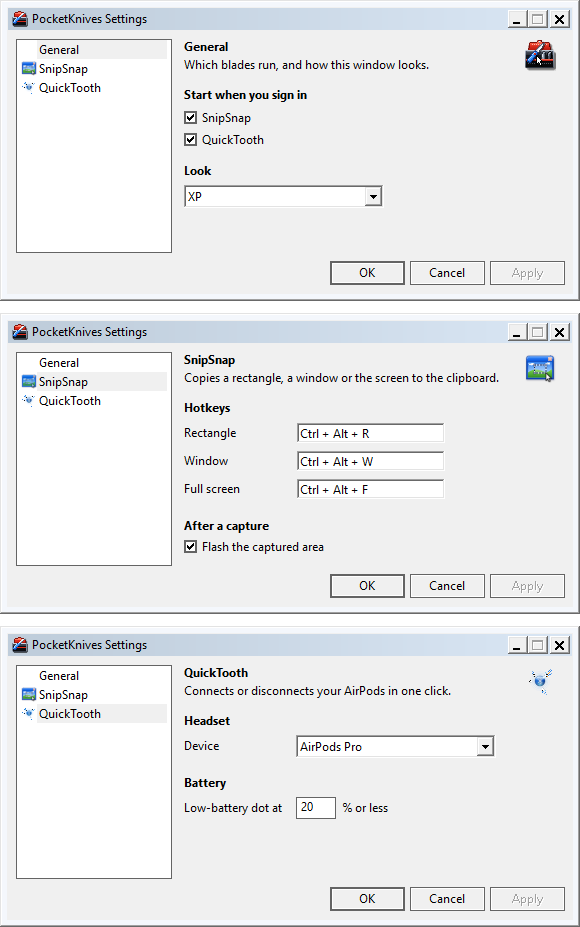
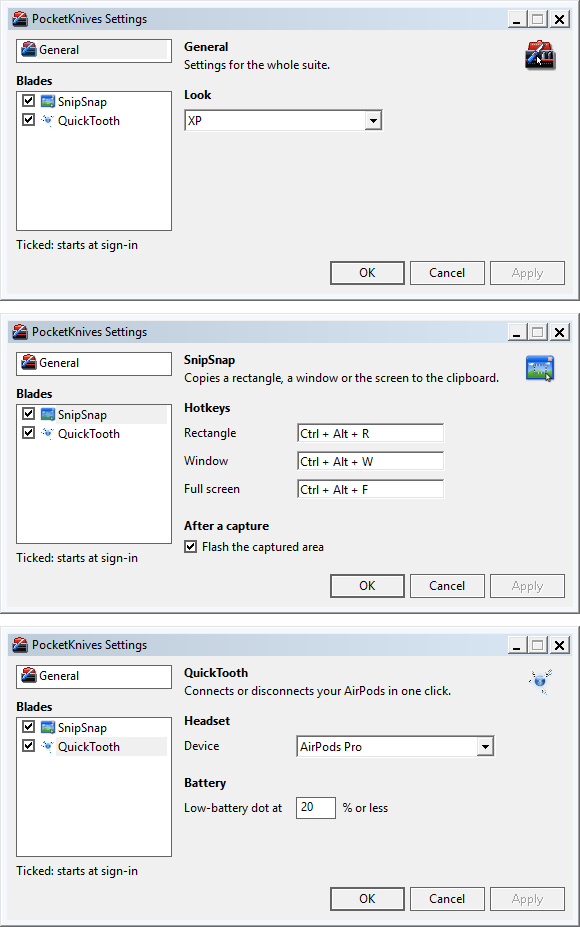
Settings window: sign-in boxes in a Blades list under General
The user picked the two-list design: General alone at the top, then a
bold "Blades" heading and the blades' list, each row with a box for
"starts when you sign in" (a switch in the Windows 11 look), so that
setting leaves General. Recaptured all three looks.

diff --git a/docs/working/runner-design.md b/docs/working/runner-design.md
@@ -118,14 +118,18 @@ with `PrintWindow`.
 
 ![The prototype, XP: the General, SnipSnap and QuickTooth pages](runner-design/settings-raw.png)
 
-- **Layout**: a list on the left, one row per page ("General", then each blade with its 16 px
-  icon); the selected page on the right; OK / Cancel / Apply at the bottom. A page is its name in
+- **Layout**: on the left, General alone, then a bold "Blades" heading and a list of the blades,
+  each with its 16 px icon and a check box: ticked, it starts when you sign in ("Ticked: starts at
+  sign-in" under the list). The user picked this over three other designs (General indented with
+  no box, General renamed PocketKnives with its own box, the boxes on the right). Selecting a row
+  in either list shows its page on the right; OK / Cancel / Apply at the bottom. A page is its name in
   bold, one line on what it does and a 32 px logo at the top right (the blade's; the PocketKnives
   logo on General), then plain bold headings with the controls under them. No tabs, no group
   boxes, no separators.
 - **XP**: Windows' classic controls (visual styles switched off with `SetWindowTheme`, which also
   gives the classic title bar), with the flat variant of buttons and check boxes (`BS_FLAT`) and
-  1 px black borders (`WS_BORDER`) on the list and text boxes. The system font (Segoe UI 9),
+  1 px black borders (`WS_BORDER`) on the lists and text boxes. The list's own check boxes are
+  always themed, so XP gives it classic flat ones drawn by Windows (`DrawFrameControl`). The system font (Segoe UI 9),
   square corners (a DWM setting), the suite's 16 px icon in the title bar. The drop-downs keep
   their classic 3D button: Windows has no flat variant of it. XP's own Luna theme isn't one of
   the looks (see below).
@@ -159,9 +163,10 @@ with `PrintWindow`.
   window uses the largest frame of `assets/pocketknives.ico` that fits the 32 px slot (32, 48 or
   64 px), so it's never scaled. The same `.ico` is the `pk` exe's icon, and the settings window's
   in the taskbar and the Start menu.
-- **Measured** (this prototype, both looks, the icons and the look switch): an 879 KB exe with
-  zero AOT warnings (the switch added 17 KB); 1.6 MB private working set while open; 56 ms from
-  launch until it has painted and exited (median of 30, measured before the logos and the switch).
+- **Measured** (this prototype, both looks, the icons, the look switch and the boxes in the list):
+  an 881 KB exe with zero AOT warnings (the switch added 17 KB, the boxes about 2 KB); 1.6 MB private
+  working set while open (measured before the boxes); 56 ms from launch until it has painted and
+  exited (median of 30, measured before the logos, the switch and the boxes).
   Closed, it costs nothing.
 
 ### Windows 11: the Settings style in WinUI 3
@@ -176,6 +181,9 @@ PC's apps are set to dark:
 
 ![The WinUI 3 prototype: General, SnipSnap and QuickTooth](runner-design/settings-winui.png)
 
+- **The pane** has the same layout as the list: General, a "Blades" heading, and each blade with
+  a switch on the right (on: it starts when you sign in; "On: starts when you sign in" at the
+  bottom of the pane).
 - **The glass isn't in these captures.** `PrintWindow` doesn't include the Mica backdrop, so it
   comes out flat grey. Nobody has seen the glass on screen yet; `pkwinui.exe show` opens it as a
   normal window to look at.
@@ -214,7 +222,8 @@ How it works with a process per blade:
   such as QuickTooth's paired devices, come from the blade too, in its `--settings` output. That's
   one process start per blade when the window opens and per Apply (9–17 ms each, measured).
 - **Which blades run** is the runner's own setting, in its own file under
-  `%APPDATA%\PocketKnives`. Ticking a blade starts it now and at every sign-in. Unticking stops it
+  `%APPDATA%\PocketKnives`, set with the blade's box in the list (its switch in Windows 11).
+  Ticking a blade starts it now and at every sign-in. Unticking stops it
   with its stop command and leaves it out at sign-in.
 - **A running blade picks up a change** when `--set` posts it `PocketKnives.Reload.v1`. It re-reads
   its file and applies it (SnipSnap re-registers its hotkeys). For SnipSnap, reading an INI file

diff --git a/docs/working/decisions.md b/docs/working/decisions.md
@@ -9,8 +9,9 @@ blade's own decisions are in its `docs/working/decisions.md`.
   benjkr/quicktooth. The blades were imported with their full history
   (`git filter-repo --to-subdirectory-filter`), so nothing is lost if they're never touched again.
 - **A settings window** that changes the behaviour, looks and settings of each blade, with each
-  blade's icon in the list and its logo at the top right of its page (the PocketKnives logo on
-  General). It has **three looks, switched with a setting** (General > Look): **XP**, the raw
+  blade's logo at the top right of its page (the PocketKnives logo on General). On the left,
+  General alone, then a "Blades" list: each blade's icon and a box (a switch in Windows 11) for
+  "starts when you sign in", so that setting isn't on General. It has **three looks, switched with a setting** (General > Look): **XP**, the raw
   look (in the user's words: minimal, nothing fancy, brutalist, lists on the side, native Windows
   stuff); **Windows 10**, the same native controls with visual styles on; **Windows 11**, the
   Windows 11 Settings style (glassy, modern) in WinUI 3. A Windows 7 look drawn by hand was
